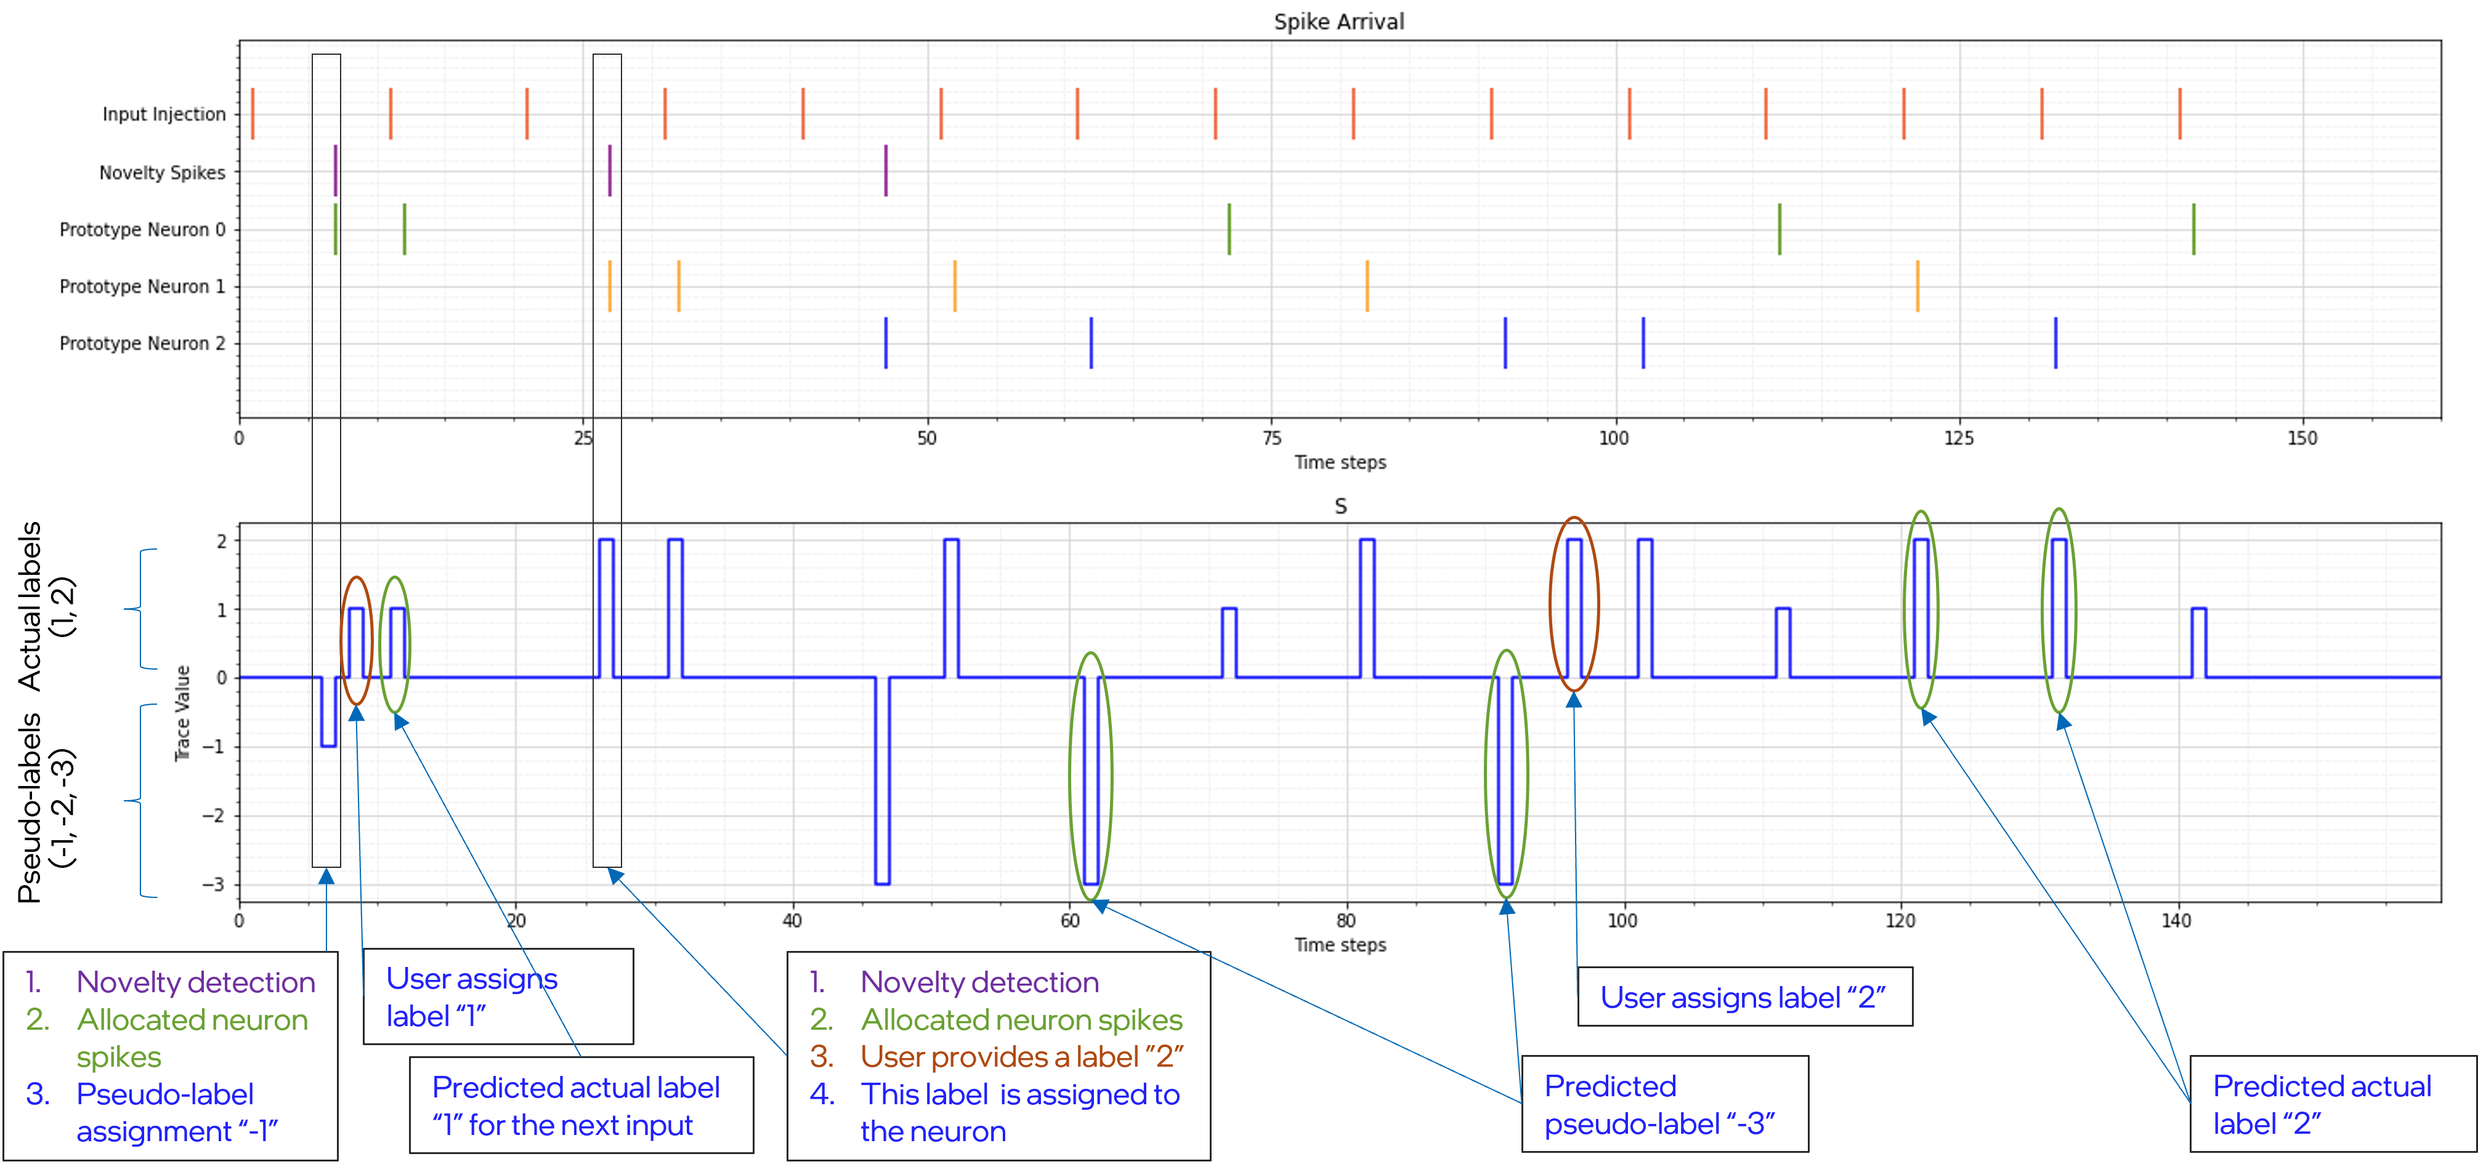
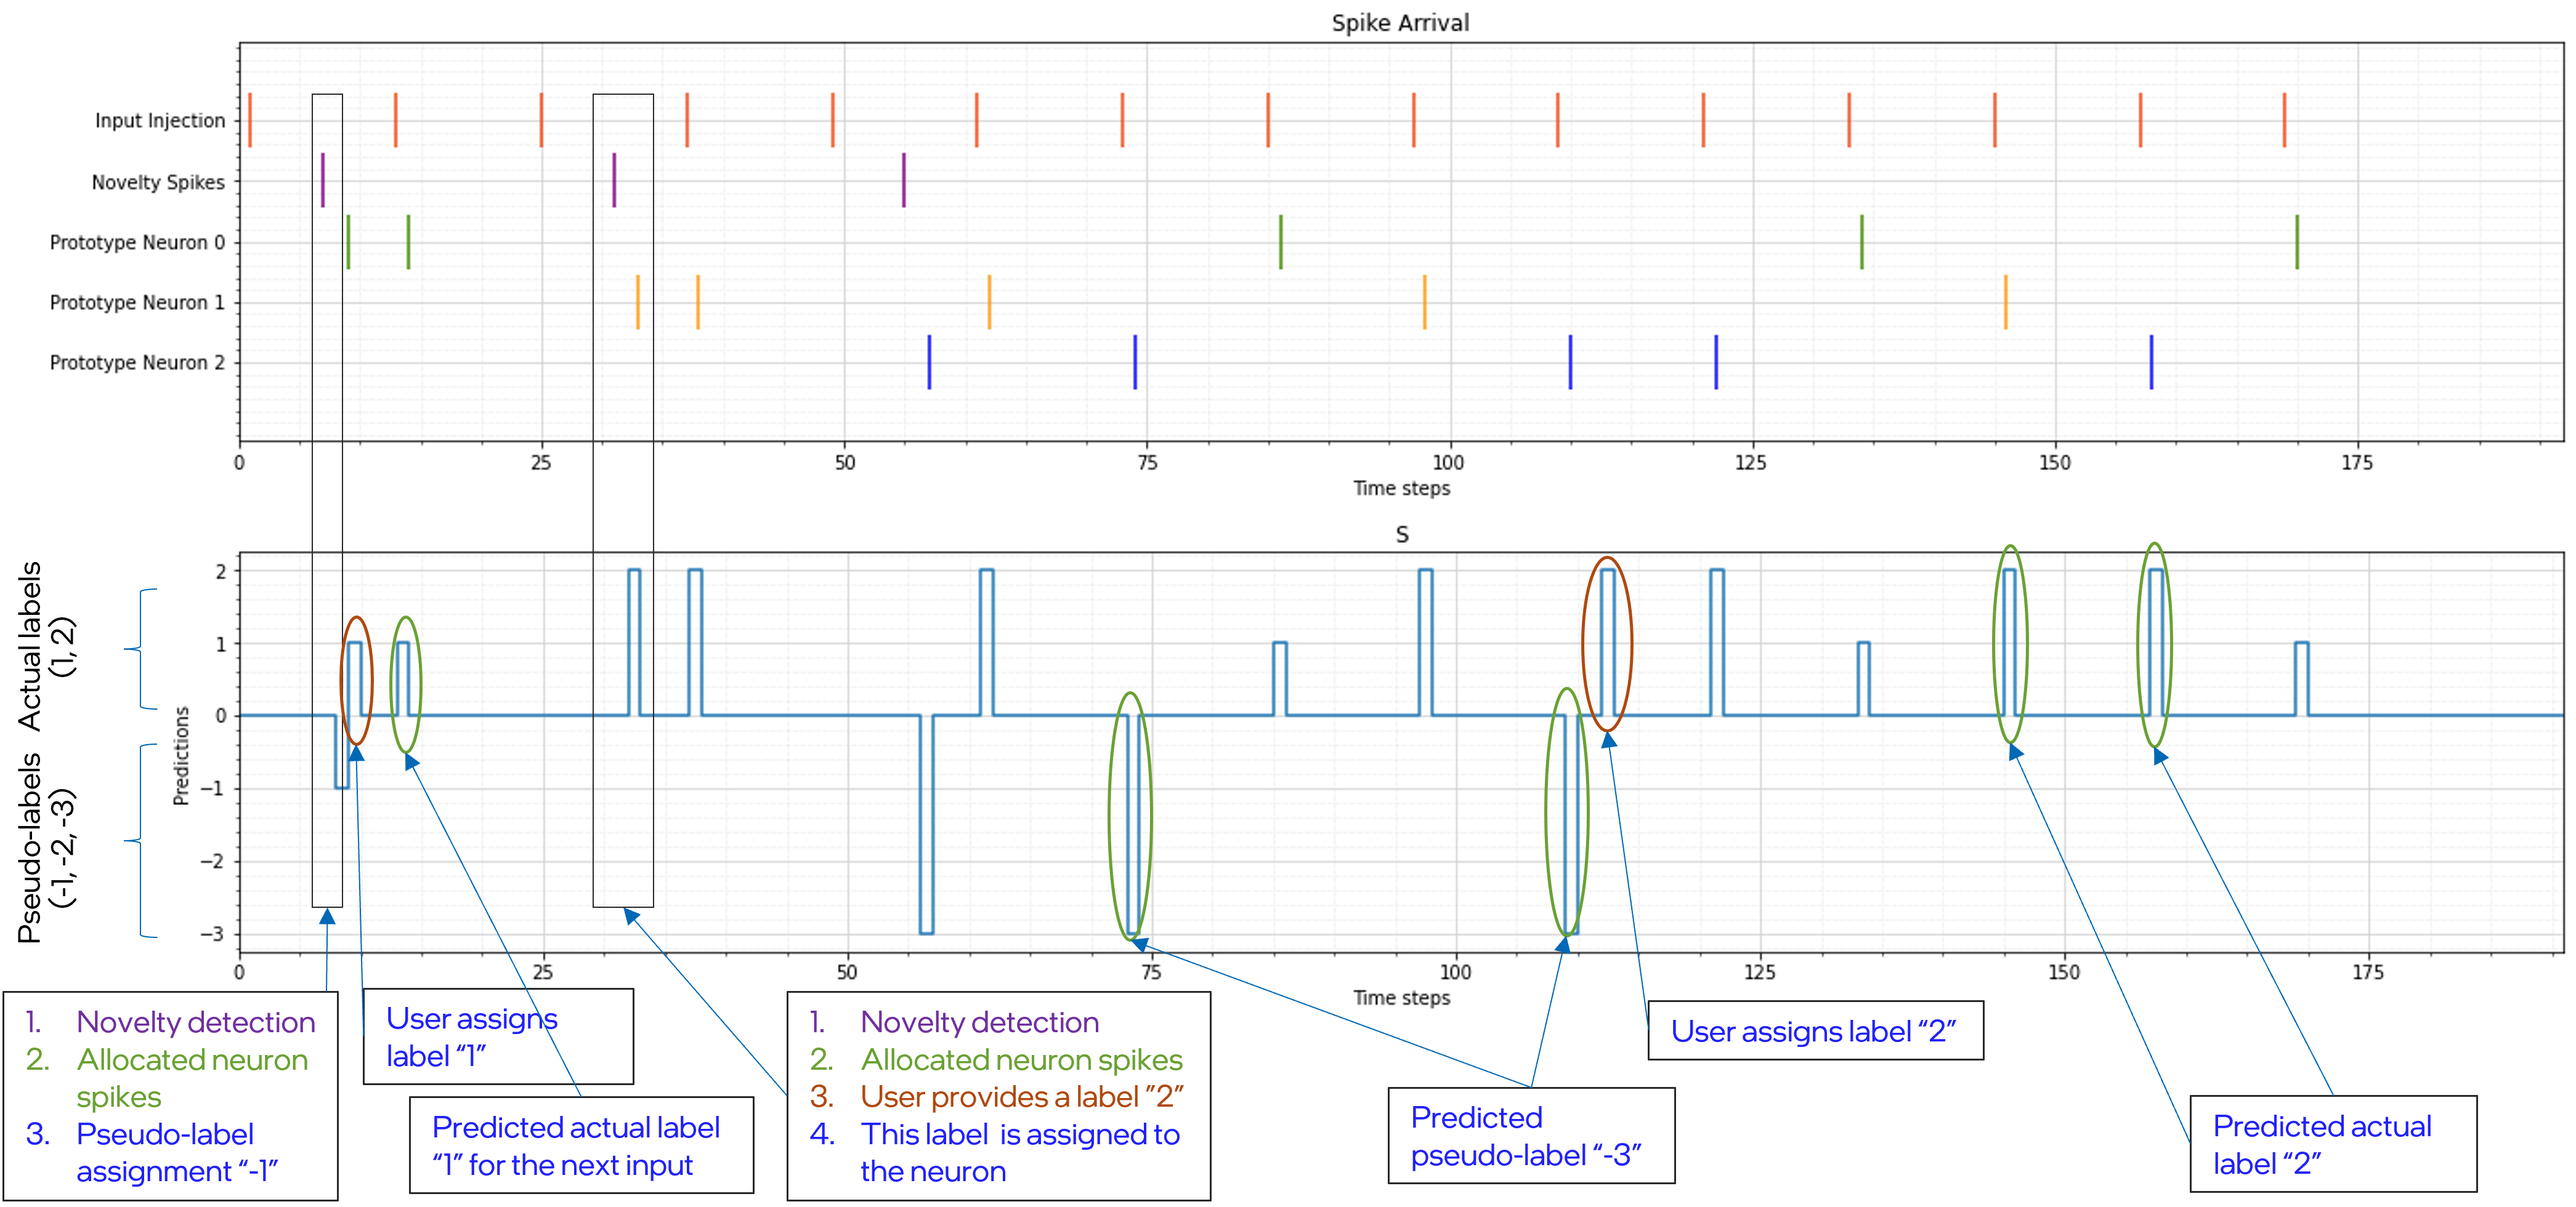
CLP tutorial 1 is finalized

diff --git a/tutorials/in_depth/clp/utils.py b/tutorials/in_depth/clp/utils.py
@@ -212,7 +212,7 @@ def plot_multiple_time_series(time, time_series_list, ylabel,
 
 
 def plot_spikes_time_series(time, time_series, spikes, figsize, legend,
-                            colors, title, num_steps):
+                            colors, y_label_time_series, title, num_steps):
     offsets = list(range(1, len(spikes) + 1))
     num_x_ticks = np.arange(0, num_steps + 1, 25)
 
@@ -246,6 +246,6 @@ def plot_spikes_time_series(time, time_series, spikes, figsize, legend,
     plt.minorticks_on()
     plt.margins(x=0)
 
-    plt.ylabel("Trace Value")
+    plt.ylabel(y_label_time_series)
 
     plt.show()
